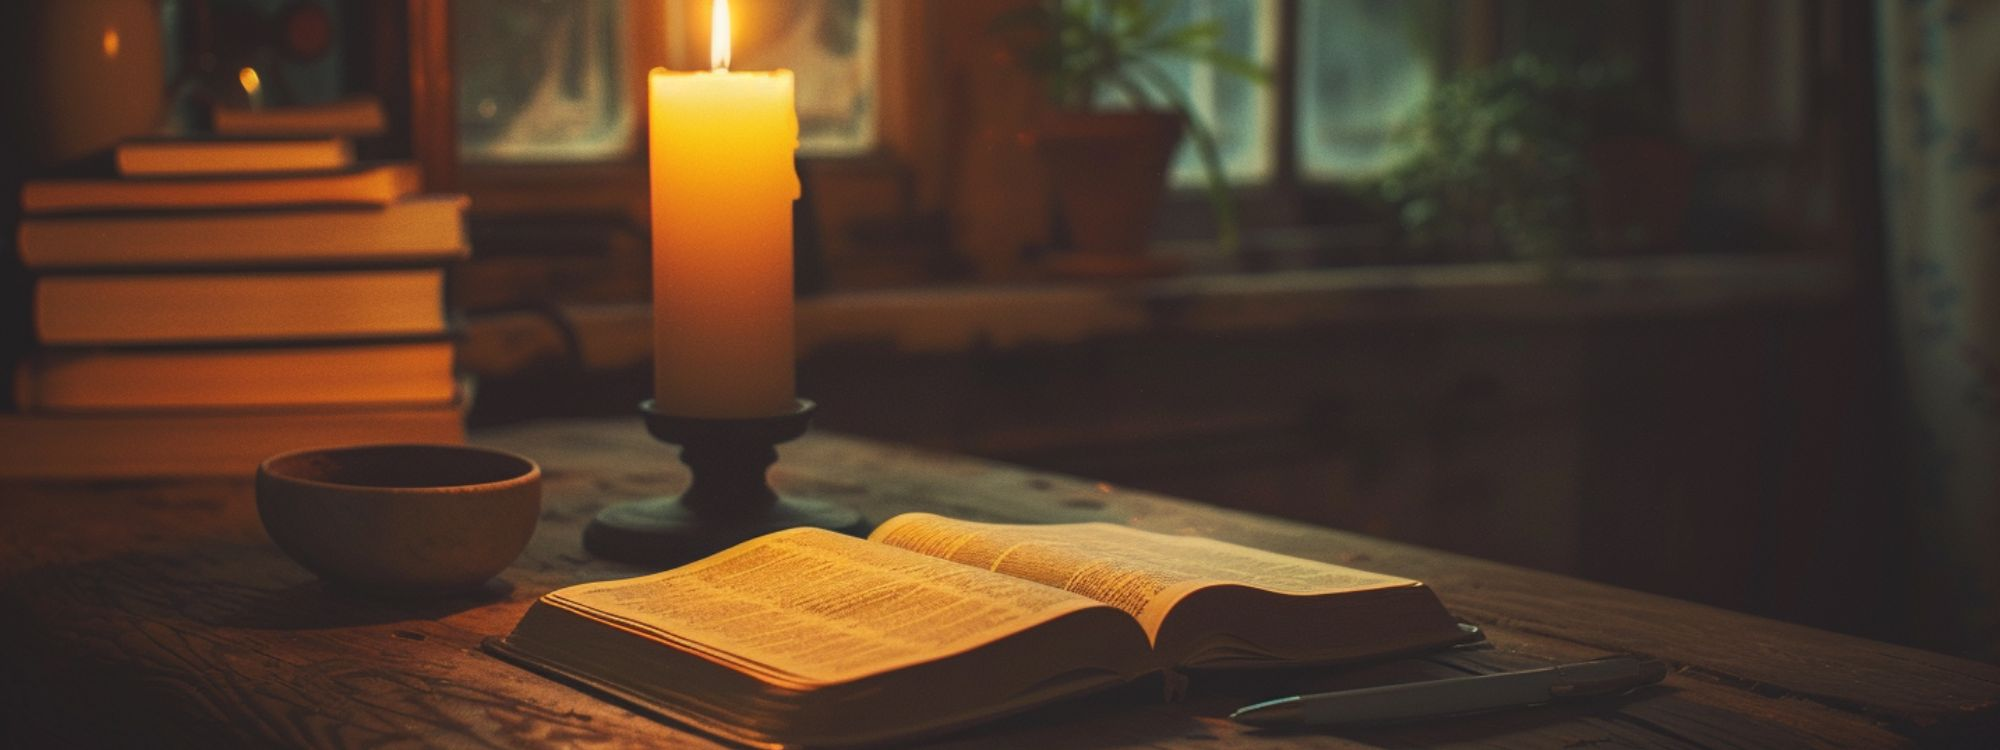
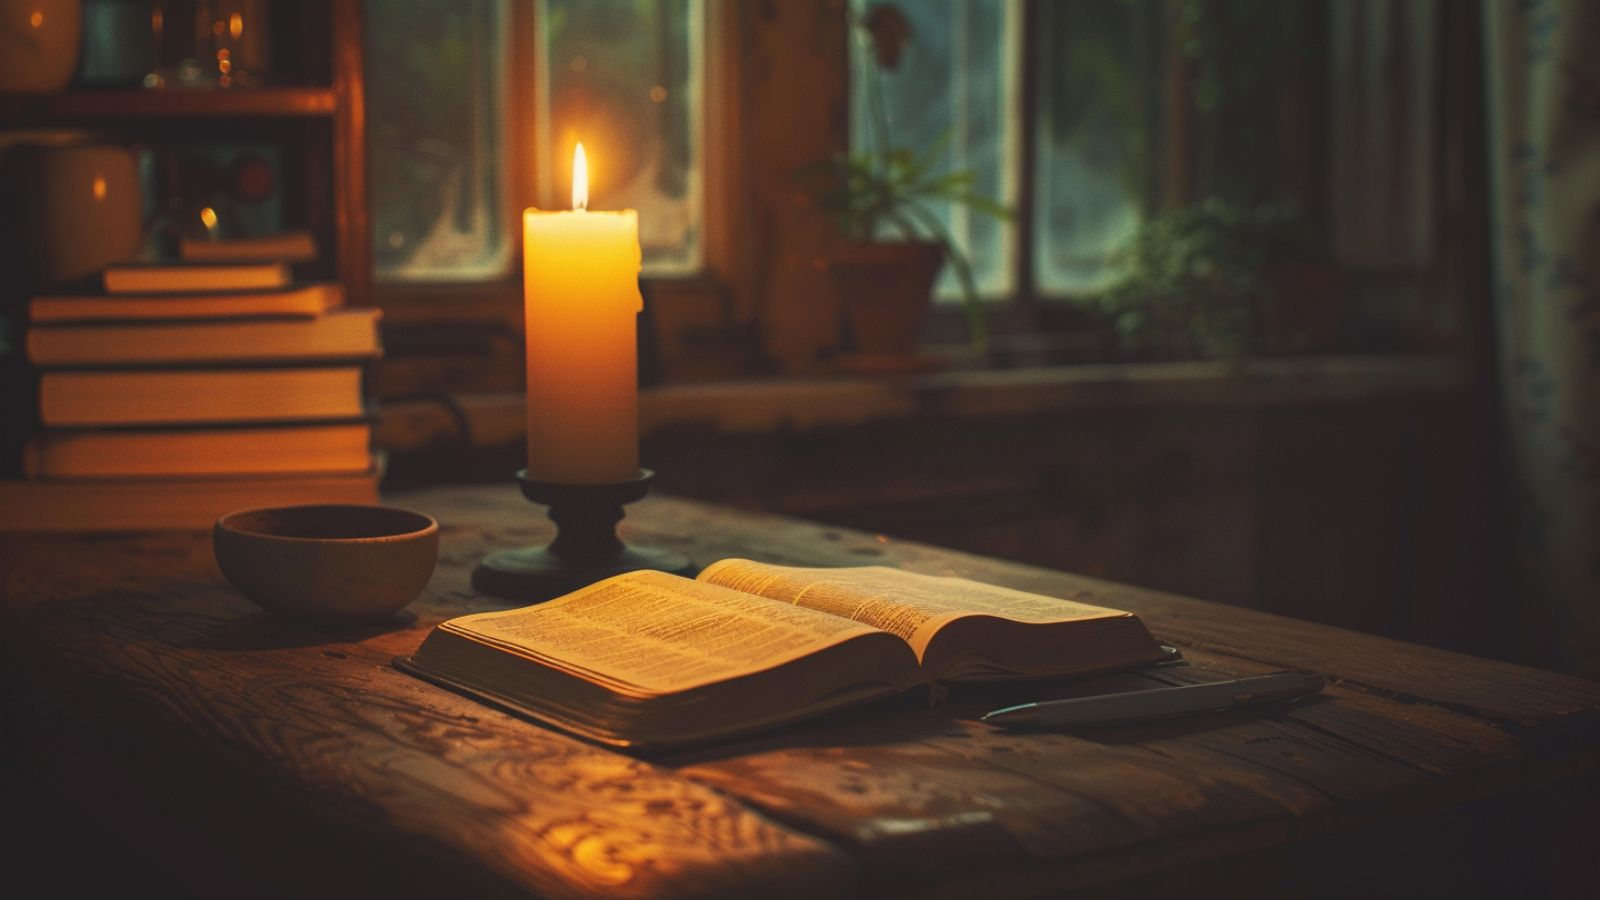
Rotate landing hero images with calm crossfade

diff --git a/app/landing/page.tsx b/app/landing/page.tsx
@@ -2,6 +2,7 @@ import Header from "@/components/Header";
 import Link from "next/link";
 import InstallButton from "../../components/InstallButton";
 import ShareButton from "../../components/ShareButton";
+import HeroRotator from "@/components/HeroRotator";
 
 export default function HomePage() {
   return (
@@ -12,13 +13,18 @@ export default function HomePage() {
         <div className="mx-auto max-w-6xl px-6 py-14">
           {/* Hero image (Landing) */}
           <div className="relative w-full h-[38vh] sm:h-[44vh] rounded-3xl overflow-hidden mb-12 motion-soft">
-            <div
-              className="absolute inset-0 bg-cover bg-center manna-hero-motion"
-              style={{
-                backgroundImage: "url(/images/landing/landing-hero.jpg)",
-              }}
+            <HeroRotator
+              images={[
+                "/images/landing/landing-hero.jpg",
+                "/images/landing/landing-hero-1.jpg",
+                "/images/landing/landing-hero-2.jpg",
+                "/images/landing/landing-hero-3.jpg",
+                "/images/landing/landing-hero-4.jpg",
+              ]}
+              intervalMs={10000}
+              fadeMs={1200}
+              overlayClassName="bg-black/25"
             />
-            <div className="absolute inset-0 bg-black/25" />
 
             {/* Bottom readability band */}
             <div className="absolute inset-x-0 bottom-0 h-28 sm:h-32 bg-gradient-to-t from-black/55 via-black/25 to-transparent" />
